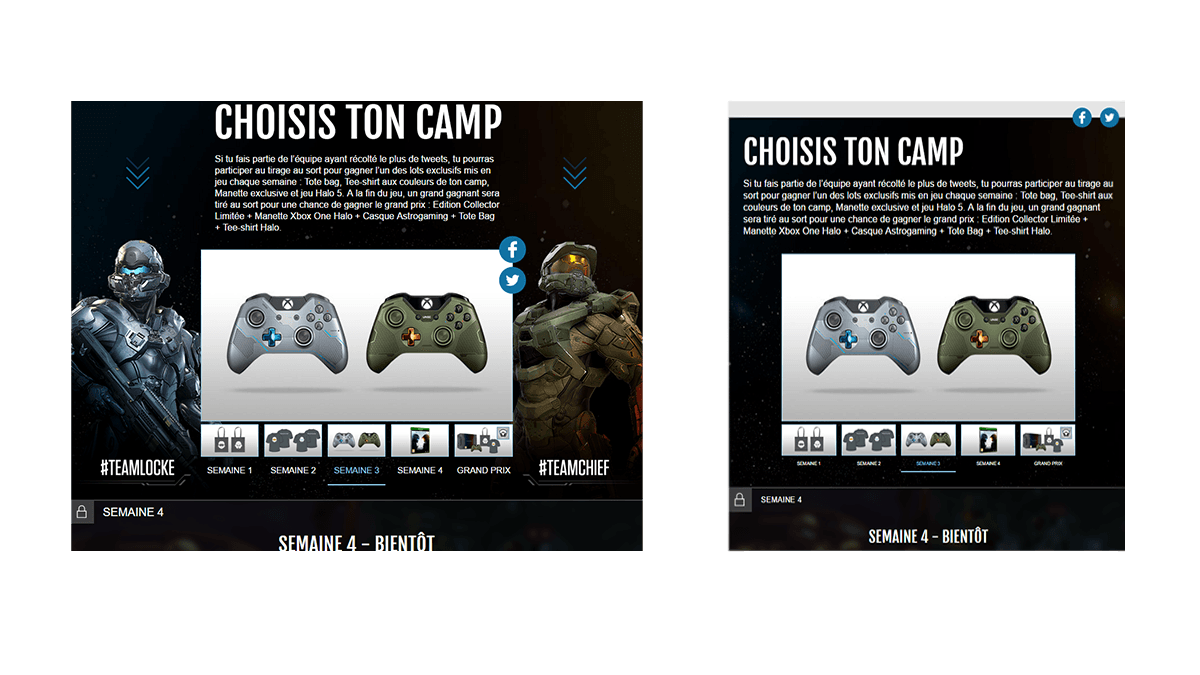
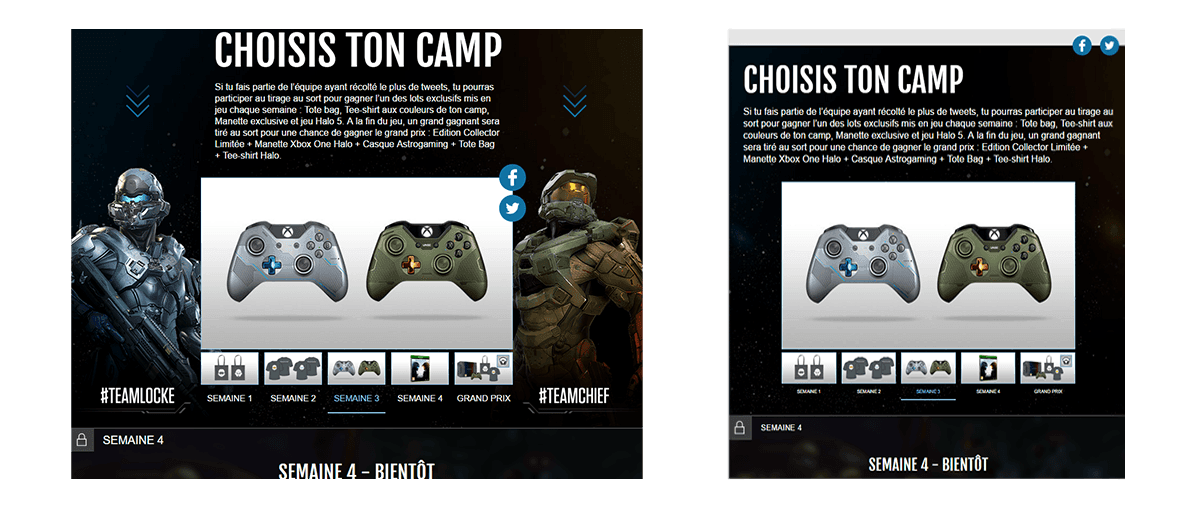
Moved slider to top. Added mobile img. Updated slider logic display

diff --git a/css/main.css b/css/main.css
@@ -745,25 +745,29 @@ input.cta p {
 }
 @media screen and (min-width: 1000px) {
   /* line 22, ../sass/Layout/_project_single.scss */
+  .singleProject-wrapper .mobile-hero {
+    display: none;
+  }
+  /* line 25, ../sass/Layout/_project_single.scss */
   .singleProject-wrapper .summary {
     width: 75%;
     margin-bottom: 0;
   }
-  /* line 26, ../sass/Layout/_project_single.scss */
+  /* line 29, ../sass/Layout/_project_single.scss */
   .singleProject-wrapper .languages_ul {
     width: 20%;
     border-top: none;
     border-left: 1px solid #58a4b0;
     padding: 0 0 0 40px;
   }
-  /* line 31, ../sass/Layout/_project_single.scss */
+  /* line 34, ../sass/Layout/_project_single.scss */
   .singleProject-wrapper .languages_ul li {
     padding: 0;
   }
 }
 
 /* Navigation wrapper */
-/* line 40, ../sass/Layout/_project_single.scss */
+/* line 43, ../sass/Layout/_project_single.scss */
 .projectNavigation-wrapper {
   display: -webkit-flex;
   display: -ms-flexbox;
@@ -777,14 +781,14 @@ input.cta p {
   margin-right: 12px;
 }
 @media only screen and (max-width: 499px) {
-  /* line 40, ../sass/Layout/_project_single.scss */
+  /* line 43, ../sass/Layout/_project_single.scss */
   .projectNavigation-wrapper {
     display: none;
   }
 }
 
 /* Slider Styling */
-/* line 55, ../sass/Layout/_project_single.scss */
+/* line 58, ../sass/Layout/_project_single.scss */
 .projectImage-wrapper {
   width: 100%;
   overflow: hidden;
@@ -792,12 +796,12 @@ input.cta p {
   position: relative;
 }
 @media only screen and (max-width: 599px) {
-  /* line 55, ../sass/Layout/_project_single.scss */
+  /* line 58, ../sass/Layout/_project_single.scss */
   .projectImage-wrapper {
     display: none;
   }
 }
-/* line 63, ../sass/Layout/_project_single.scss */
+/* line 66, ../sass/Layout/_project_single.scss */
 .projectImage-wrapper figure {
   position: relative;
   margin: 0;
@@ -806,12 +810,12 @@ input.cta p {
   overflow: hidden;
   transition: all ease-in-out 0.5s;
 }
-/* line 70, ../sass/Layout/_project_single.scss */
+/* line 73, ../sass/Layout/_project_single.scss */
 .projectImage-wrapper figure img {
   height: auto;
   float: left;
 }
-/* line 75, ../sass/Layout/_project_single.scss */
+/* line 78, ../sass/Layout/_project_single.scss */
 .projectImage-wrapper .slider-arrows {
   display: -webkit-flex;
   display: -ms-flexbox;
@@ -828,16 +832,16 @@ input.cta p {
           transform: translateY(-50%);
   z-index: 20;
 }
-/* line 82, ../sass/Layout/_project_single.scss */
+/* line 85, ../sass/Layout/_project_single.scss */
 .projectImage-wrapper .slider-arrows .next-wrapper {
   margin-left: auto;
 }
-/* line 87, ../sass/Layout/_project_single.scss */
+/* line 90, ../sass/Layout/_project_single.scss */
 .projectImage-wrapper .slider-pagination {
   margin: 20px auto;
   text-align: center;
 }
-/* line 90, ../sass/Layout/_project_single.scss */
+/* line 93, ../sass/Layout/_project_single.scss */
 .projectImage-wrapper .slider-pagination span {
   cursor: pointer;
   padding: 8px;
@@ -849,7 +853,7 @@ input.cta p {
   font-size: 0;
   border-radius: 100%;
 }
-/* line 100, ../sass/Layout/_project_single.scss */
+/* line 103, ../sass/Layout/_project_single.scss */
 .projectImage-wrapper .slider-pagination span.active, .projectImage-wrapper .slider-pagination span:hover {
   background-color: #58a4b0;
 }

diff --git a/app/templates/project_single.html b/app/templates/project_single.html
@@ -17,20 +17,11 @@
 		</div>
 	</nav>
 
-	<img ng-src="{{ project.heroImg }}" alt="{{ project.heroAlt }}">
-
-	<div class="summary">
-		<p ng-repeat="details in project.projectDetails">{{ details }}</p>
-	</div>
-
-	<ul class="languages_ul">
-		<li ng-repeat="language in project.languages">{{ language }}</li>
-	</ul>
-
+	<img class="mobile-hero" ng-src="{{ project.projectImages[0] }}" alt="Project Screenshot">
 
 	<div class="projectImage-wrapper" ng-if="project.projectImages">
 		<!-- Slider Nav -->
-		<div class="slider-arrows">
+		<div class="slider-arrows" ng-if="project.projectImages.length > 1">
 			<div class="prev-wrapper" ng-click="prevSlide()">
 				<button class="prevButton arrow">
 					<i></i><i></i>
@@ -56,12 +47,21 @@
 		</figure>
 
 		<!-- Pagination -->
-		<div class="slider-pagination">
+		<div class="slider-pagination" ng-if="project.projectImages.length > 1">
 			<span ng-class="{active: $index === currentSlide() }" 
 				ng-repeat="item in project.projectImages"
 				ng-click="goToSlide( $index )">{{ $index + 1 }}</span>
 		</div>
 	</div>
+
+	<div class="summary">
+		<p ng-repeat="details in project.projectDetails">{{ details }}</p>
+	</div>
+
+	<ul class="languages_ul">
+		<li ng-repeat="language in project.languages">{{ language }}</li>
+	</ul>
+
 
 	<a class="cta" ng-href="{{ project.websiteUrl }}" ng-if="project.websiteUrl" target="_blank">
 		<p>Visit the live site.</p>

diff --git a/sass/Layout/_project_single.scss b/sass/Layout/_project_single.scss
@@ -19,6 +19,9 @@
 		}
 	}
 	@include mq(medium) {
+		.mobile-hero {
+			display: none;
+		}
 		.summary {
 			width: 75%;
 			margin-bottom: 0;
